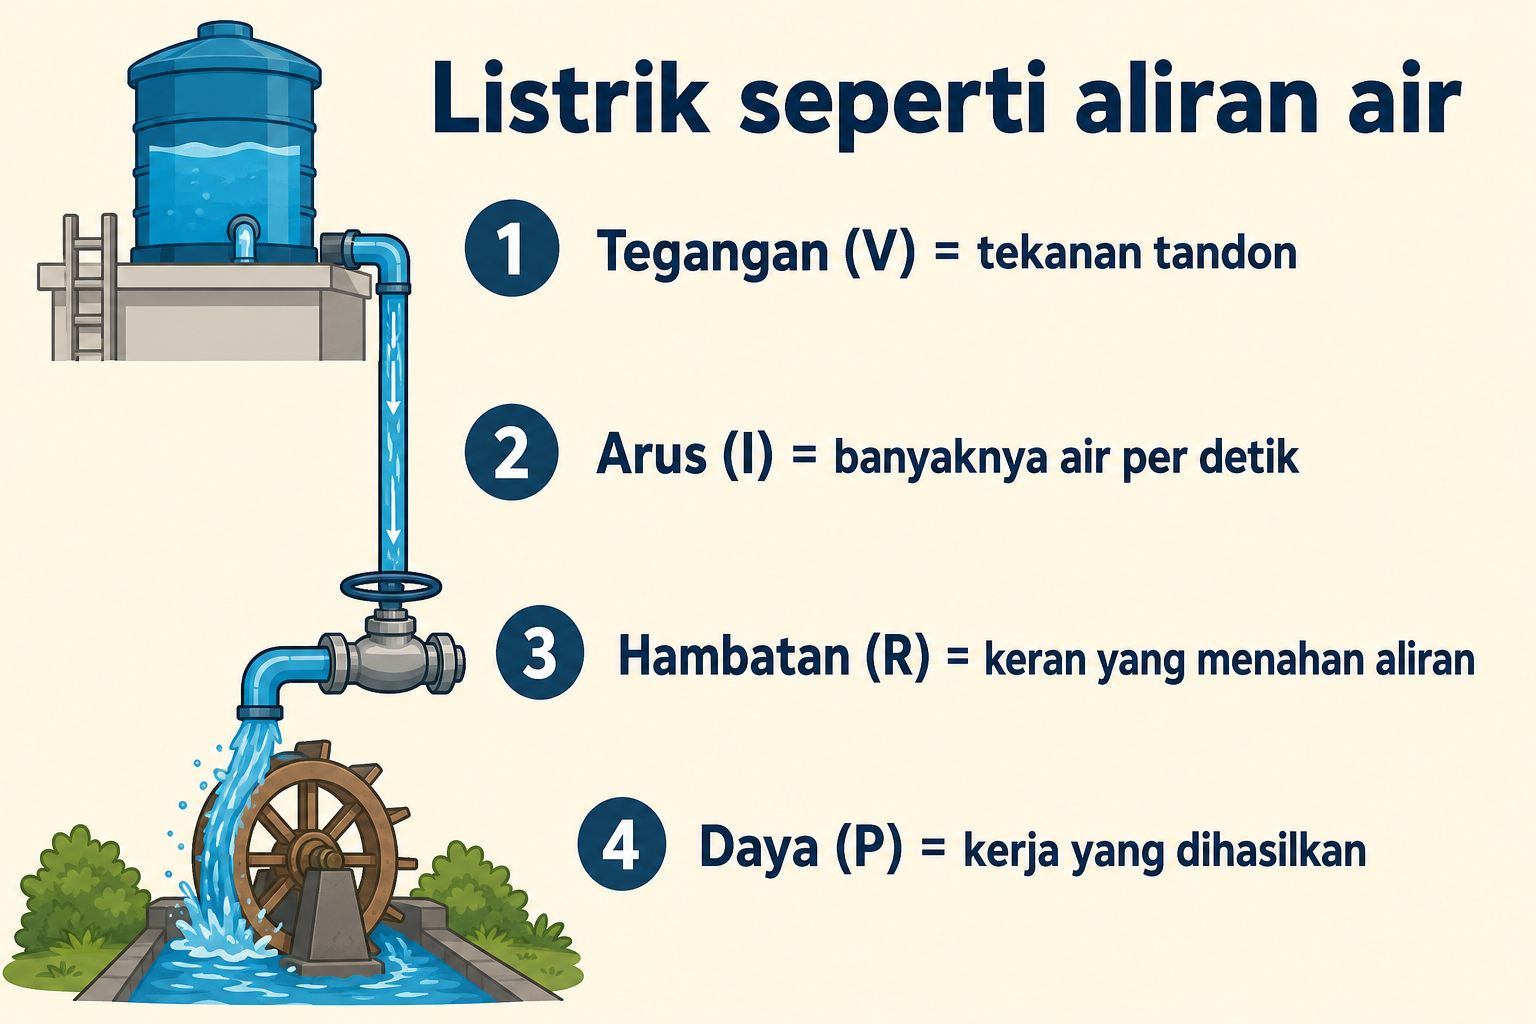
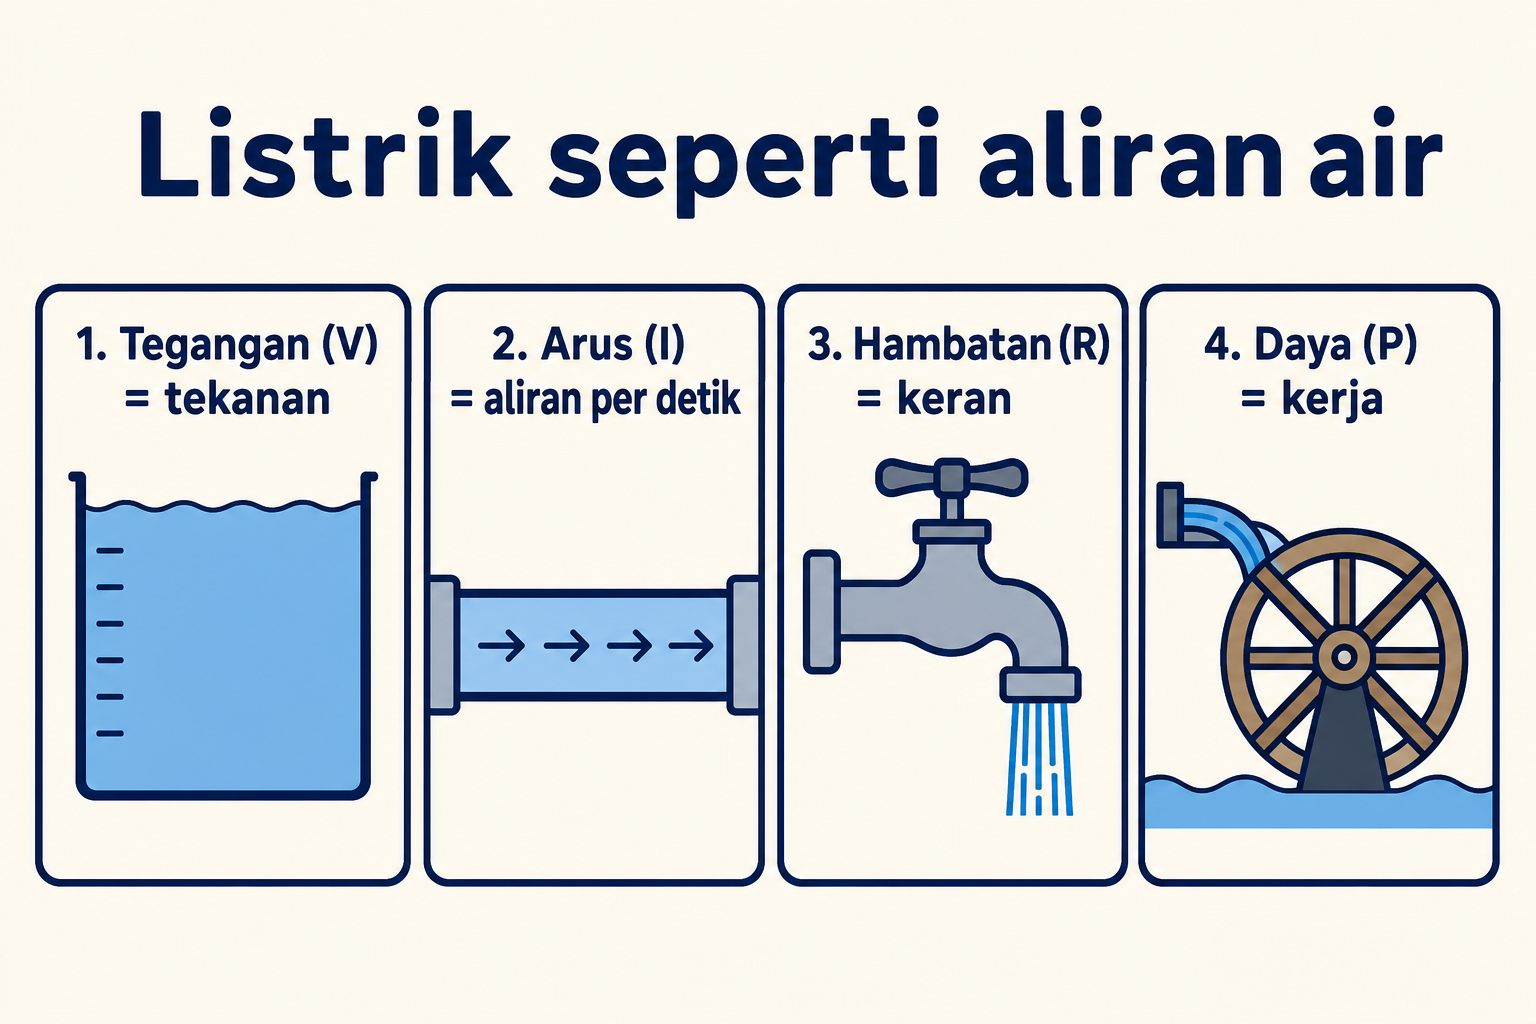
docs: replace misleading Modul 0.1 diagrams with correct LED polarity and simpler infographics

diff --git a/00-fondasi-dasar/01-dasar-listrik-dan-hukum-ohm.md b/00-fondasi-dasar/01-dasar-listrik-dan-hukum-ohm.md
@@ -104,7 +104,7 @@ Sifat nakalnya: LED **hampir tidak bisa mengerem arus sendiri**. Disambung langs
 
 ![Perbandingan LED tanpa resistor yang hangus dan LED dengan resistor 220 ohm yang aman](aset/led-dengan-tanpa-resistor.jpg)
 
-*Ilustrasi orisinal kurikulum ini. Baterai di gambar hanya pemanis; di ESP32 kita pakai pin GPIO 3,3 V atau colokan 5 V.*
+*Ilustrasi orisinal kurikulum ini. Sumber di gambar = USB 5 V. Di ESP32 pin program (`digitalWrite`) tetap **3,3 V**; resistor 220 Ω aman untuk keduanya.*
 
 Resistor itu **rem**. Kita pasang supaya arus kira-kira 10–20 mA, LED terang dan awet.
 
@@ -112,9 +112,15 @@ Resistor itu **rem**. Kita pasang supaya arus kira-kira 10–20 mA, LED terang d
 
 Salah arah = tidak nyala (biasanya tidak rusak, cuma diam).
 
-![Kaki panjang LED adalah anoda positif, kaki pendek dan sisi pipih adalah katoda negatif](aset/polaritas-kaki-led.jpg)
+Lihat dulu **foto asli**. Dua kaki keluar dari **bawah kubah**, bukan dari kiri-kanan seperti resistor.
 
-*Ilustrasi orisinal kurikulum ini.*
+![Foto LED 5 mm: dua kaki dari dasar kubah, salah satunya lebih panjang](aset/led-5mm-foto.jpg)
+
+*Foto LED 5 mm. Sumber: [oomlout](https://commons.wikimedia.org/wiki/File:5mm_Red_LED.jpg), Wikimedia Commons, [CC BY-SA 2.0](https://creativecommons.org/licenses/by-sa/2.0/).*
+
+![Cara bedakan kaki LED: kaki panjang anoda, kaki pendek dan sisi pipih katoda](aset/polaritas-kaki-led.jpg)
+
+*Ilustrasi orisinal kurikulum ini, diselaraskan dengan foto di atas.*
 
 - **Kaki panjang** = **anoda (+)** = tempat arus “masuk”.
 - **Kaki pendek + sisi plastik yang pipih** = **katoda (−)** = menuju GND.
@@ -179,7 +185,7 @@ Coba isi sendiri: `R = (3,3 − 2,0) / 0,015`. Hasilnya kira-kira berapa? (Membu
 
 ![Perbandingan grafik DC datar 5 volt dan AC bolak-balik 220 volt](aset/arus-dc-vs-ac.jpg)
 
-*Ilustrasi orisinal kurikulum ini. Angka puncak di grafik AC tidak perlu dihafal; yang penting: AC naik-turun dan berbahaya.*
+*Ilustrasi orisinal kurikulum ini. Yang perlu diingat: DC datar dan aman disentuh di 3,3–5 V; AC naik-turun dan stopkontak 220 V jangan disentuh.*
 
 | | **DC (searah)** | **AC (bolak-balik)** |
 | :--- | :--- | :--- |
@@ -298,7 +304,8 @@ Klik hijau **Start the simulation**. LED harus menyala **tetap** (tidak kedip).
 
 | Gambar | Sumber | Lisensi |
 | :--- | :--- | :--- |
-| Analogi tandon, segitiga Ohm, LED ± resistor, polaritas LED, DC vs AC, rangkaian Wokwi | Ilustrasi orisinal kurikulum ini | Dibuat khusus untuk modul 0.1 |
+| Analogi air, segitiga Ohm, LED ± resistor, polaritas LED, DC vs AC, rangkaian Wokwi | Ilustrasi orisinal kurikulum ini | Dibuat khusus untuk modul 0.1 |
+| Foto LED 5 mm | [oomlout / Wikimedia Commons](https://commons.wikimedia.org/wiki/File:5mm_Red_LED.jpg) | [CC BY-SA 2.0](https://creativecommons.org/licenses/by-sa/2.0/) |
 
 ---
 

diff --git a/TODO.md b/TODO.md
@@ -59,7 +59,7 @@
 - [x] Visual: foto board berlisensi, ilustrasi alur/anatomi/kabel/tombol, plus tangkapan layar Wokwi dengan sitasi.
 
 ### 0.1 Dasar Listrik Intuitif (Analogi Aliran Air)
-> Materi: [01-dasar-listrik-dan-hukum-ohm.md](00-fondasi-dasar/01-dasar-listrik-dan-hukum-ohm.md) · Audit ramah-awam 22 Agustus 2026: tools-first, GPIO = 3,3 V (bukan 5 V), Wokwi mikro-langkah, gambar analogi/Ohm/LED/DC-AC.
+> Materi: [01-dasar-listrik-dan-hukum-ohm.md](00-fondasi-dasar/01-dasar-listrik-dan-hukum-ohm.md) · Audit ulang gambar 22 Agustus 2026: polaritas LED AI (kaki keluar kubah) diganti foto asli + diagram anatomi benar; baterai 9 V berlabel 5 V dan warna kabel terbalik diganti USB 5 V merah=+/hitam=−; analogi 3D cacat dan grafik AC 325 V disederhanakan.
 - [x] Memahami konsep Tegangan ($V$), Arus ($I$), Hambatan ($R$), dan Daya Listrik ($P$).
 - [x] Menghitung resistor pengaman LED menggunakan Hukum Ohm ($R = \frac{V_s - V_{led}}{I}$).
 - [x] Memahami perbedaan arus listrik DC (3.3V / 5V) vs AC (220V).
